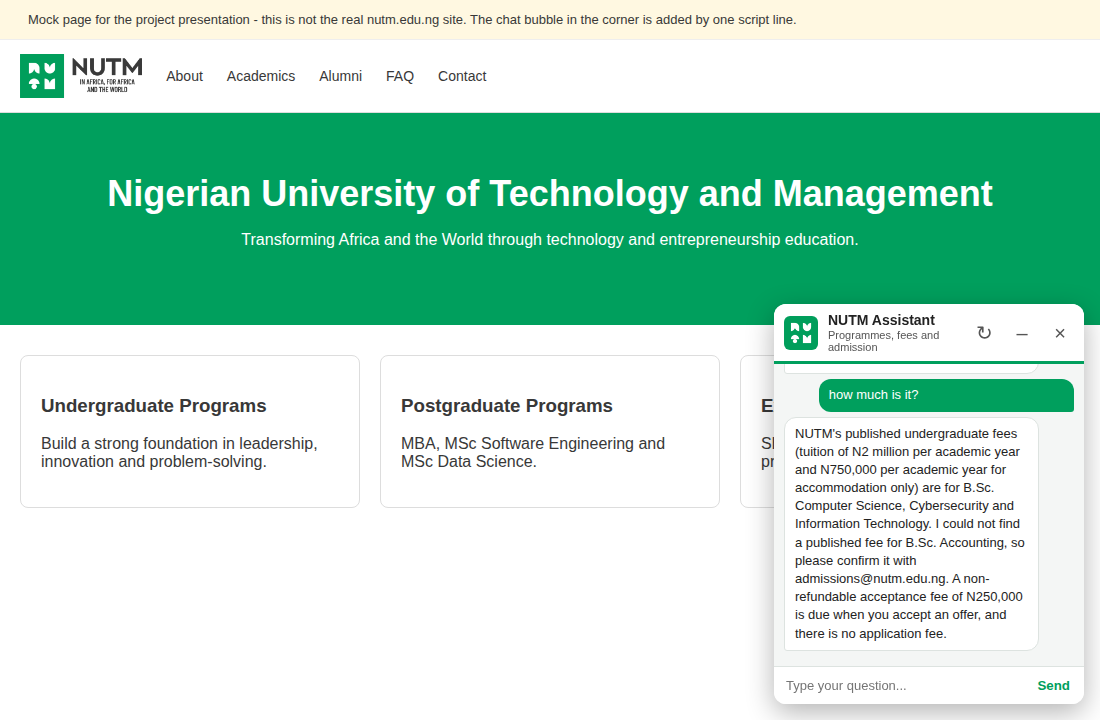
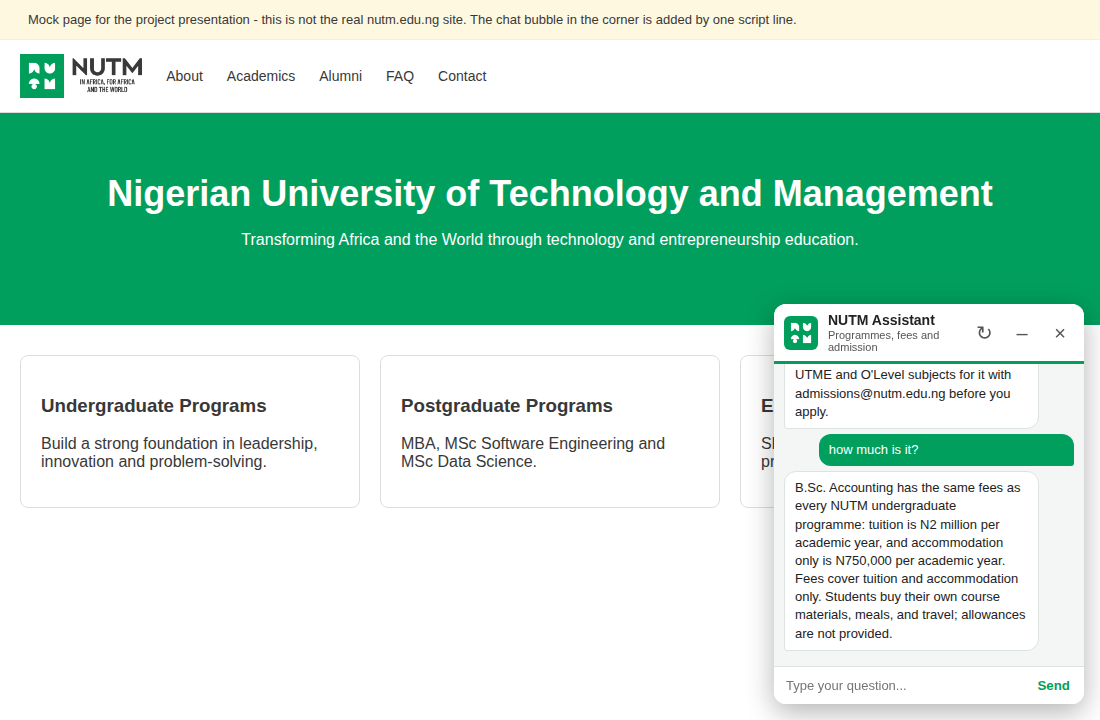
Add files via upload

Changed region(s): [[0.7109, 0.4889, 0.9891, 0.8861]]

diff --git a/nutm_chatbot.py b/nutm_chatbot.py
@@ -376,7 +376,7 @@ PROG_PATTERNS = [
 ]
 UG_WORDS = r"undergrad|\bbsc\b|b\.? ?sc\b|jamb|utme|\bug\b"
 INTENT_PATTERNS = [
-    ("eligibility", r"eligib|requirement|qualif|\bentry\b|prerequisite|criteria|cut ?off|jamb score|utme score|what do i need|need to (study|apply|get in|join)|who can (apply|study|join)"),
+    ("eligibility", r"eligib|requirement|qualif|\bentry\b|prerequisite|criteria|cut ?off|jamb score|utme score|what do i need|need to (study|apply|get in|join)|who can (apply|study|join)|physics|o.?level subjects?"),
     ("fee", r"\bfees?\b|cost|tuition|price|how much|charges|payment|\bpay\b|expensive|afford"),
     ("duration", r"how long|duration|length|\bmonths?\b|\byears?\b|semesters?"),
     ("curriculum", r"course|curriculum|module|subject|syllabus|what (will|do|can) i (learn|study)|taught|credits?|study plan"),
@@ -462,20 +462,20 @@ def route(retriever, prog, intent):
             return None
         if not degree:
             return e["body"], e
-        return (f"For {label}, NUTM's published undergraduate entry requirements are:\n{e['body']}\n\n"
-                f"NUTM states these for its undergraduate programmes in general; please confirm any extra "
-                f"requirement for {label} with admissions@nutm.edu.ng."), e
+        group = entry("Computing degrees, O'Level") if computing else entry("Business and economics degrees, O'Level")
+        if not group:
+            return None
+        return (f"{group['body']}\n\nPlease confirm any further subject requirement for {label} with "
+                f"admissions@nutm.edu.ng."), group
     if intent == "fee":
         e = entry("Tuition and accommodation fees")
         if not e:
             return None
-        if computing or not degree:
-            return ((f"{label}: " if degree else "") + e["body"]), e
-        return (f"NUTM's published undergraduate fees (tuition of N2 million per academic year and N750,000 per academic "
-                f"year for accommodation only) are for B.Sc. Computer Science, Cybersecurity and Information Technology. "
-                f"I could not find a published fee for {label}, so please confirm it with admissions@nutm.edu.ng. "
-                f"A non-refundable acceptance fee of N250,000 is due when you accept an offer, and there is no "
-                f"application fee."), e
+        if degree:
+            return (f"{label} has the same fees as every NUTM undergraduate programme: tuition is N2 million per academic "
+                    f"year, and accommodation only is N750,000 per academic year. Fees cover tuition and accommodation "
+                    f"only. Students buy their own course materials, meals, and travel; allowances are not provided."), e
+        return e["body"], e
     if intent == "admission":
         e = entry("How do I apply for an undergraduate")
         if not e:
@@ -487,11 +487,10 @@ def route(retriever, prog, intent):
         e = entry("Programme length")
         if not e:
             return None
-        if computing or not degree:
-            return ((f"{label}: " if degree else "") + e["body"]), e
-        return (f"The programme length NUTM publishes is four academic sessions (eight consecutive semesters) for its "
-                f"computing programmes entering through UTME. I could not find a published duration for {label}; "
-                f"please confirm it with admissions@nutm.edu.ng."), e
+        if degree:
+            return (f"{label} runs for a minimum of four (4) academic sessions, or eight (8) consecutive semesters, "
+                    f"for candidates who enter through UTME. All NUTM undergraduate programmes have the same length."), e
+        return e["body"], e
     if intent == "curriculum":
         e = entry(label) if degree else entry("Undergraduate programmes: list")
         if not e:

diff --git a/test_chatbot.py b/test_chatbot.py
@@ -36,7 +36,7 @@ IN_SCOPE = [
     ("what undergraduate programmes are offered", "Undergraduate programmes: list"),
     ("tell me about cybersecurity degree", "Cybersecurity"),
     ("executive education courses", "Executive Education"),
-    ("does NUTM have hostels", "accommodation"),
+    ("does NUTM have hostels", "off-campus living"),
     ("what is the minimum JAMB score", "Entry requirements for undergraduate"),
     ("is there an application fee", "application fee"),
     ("how long is the undergraduate degree", "Programme length"),
@@ -105,8 +105,8 @@ def matrix_cases():
                 for tpl in TEMPLATES[topic]:
                     yield tpl.format(p=n), mark, label, topic
     for n, (computing, desc) in UG_DEGREES.items():
-        marks = {"fee": "N2 million" if computing else "confirm it with admissions", "eligibility": "180",
-                 "admission": "university-degree-programs", "duration": "four" if computing else "confirm it with admissions",
+        marks = {"fee": "N2 million", "eligibility": "180",
+                 "admission": "university-degree-programs", "duration": "four",
                  "curriculum": desc, "start": "rolling basis"}
         for topic, mark in marks.items():
             for tpl in TEMPLATES[topic]:

diff --git a/README.md b/README.md
@@ -17,12 +17,12 @@ Built for the **Python for Data Science** course as a Python project.
 
 | Embedded on a mock NUTM page | Minimized |
 |---|---|
-| ![Chatbot embedded on a mock NUTM page](chatbot_ui_embedded_demo.png) | ![Minimized chat window](chatbot_ui_minimized.png) |
+| ![Chatbot embedded on a mock NUTM page](screenshots/chatbot_ui_embedded_demo.png) | ![Minimized chat window](screenshots/chatbot_ui_minimized.png) |
 
 ## What it can do
 
-- **Answer NUTM questions:** programmes, fees, entry requirements, admission steps, programme length, courses, start dates, scholarships, TEDLab, Shadow a Leader, contacts and more (83 knowledge entries).
-- **Give the right answer for each programme.** Ask about MSc Data Science, MSc Software Engineering, the MBA, or any undergraduate degree (Computer Science, Cybersecurity, Information Technology, Accounting, Business Administration, Entrepreneurship, Economics) and it answers for that programme. Where NUTM has not published something for a programme (for example the fee for B.Sc. Accounting), it says so and points to admissions instead of guessing.
+- **Answer NUTM questions:** programmes, fees, entry requirements, admission steps, programme length, courses, start dates, scholarships, TEDLab, Shadow a Leader, contacts and more (85 knowledge entries).
+- **Give the right answer for each programme.** Ask about MSc Data Science, MSc Software Engineering, the MBA, or any undergraduate degree (Computer Science, Cybersecurity, Information Technology, Accounting, Business Administration, Entrepreneurship, Economics) and it answers for that programme. All undergraduate programmes have the same fees (N2 million tuition and N750,000 accommodation only per academic year), and it says so for whichever degree you ask about. Where NUTM has not published a detail for a programme (for example separate subject requirements for B.Sc. Accounting), it says so and points to admissions instead of guessing.
 - **Continue a conversation.** "How much is the MBA?" then "what about data science?" then "how do I apply?" works, as does "tell me more". If a question is ambiguous ("how much is the fee?") it asks which programme you mean.
 - **Chat politely.** It replies to greetings (even with spelling mistakes, such as "good mormning"), good afternoon/evening/night, okay, well done, thanks, goodbye, "who are you?", "help" and similar.
 - **Stay honest.** Questions it cannot answer (weather, football and so on) get a friendly reply with NUTM's contact details instead of a made-up answer.
@@ -37,7 +37,7 @@ Example questions:
 
 ## How it works
 
-1. **Knowledge base:** `nutm_knowledge_base.txt` holds 83 short entries written from the NUTM website (including TEDLab, Shadow a Leader and the Scholars Program), the MSc Data Science, MSc Software Engineering and MBA brochures, and the undergraduate FAQ.
+1. **Knowledge base:** `nutm_knowledge_base.txt` holds 85 short entries written from the NUTM website (including TEDLab, Shadow a Leader and the Scholars Program), the MSc Data Science, MSc Software Engineering and MBA brochures, and the undergraduate FAQ.
 2. **Programme router:** the question is checked for a programme (for example "BSc Accounting") and a topic (fee, admission, entry requirements, duration, courses, start date). When both are found, the exact answer for that programme is returned.
 3. **Retrieval:** otherwise each entry and each question is turned into a TF-IDF word vector (with simple stemming, synonyms, spelling-mistake correction and programme detection). The entry with the highest cosine similarity is returned. Off-topic questions are detected and answered with the safe fallback.
 4. **Conversation memory:** after each answer the server sends back a small "context" (the programme and topic just discussed). The chat window stores it in the browser tab's session storage and sends it with the next question, so the server keeps no conversation history. Refreshing the page or moving to another page of the site continues the same chat; closing the tab ends it. The **New chat** button (the circular arrow) starts again.
@@ -152,7 +152,7 @@ Built in:
 - HTML pages are sent with a Content-Security-Policy, `X-Frame-Options` and `Referrer-Policy`; HTTPS responses add `Strict-Transport-Security`. The server does not reveal its Python version.
 - Visitors' questions are never saved or logged by the server; log lines have control characters removed. `/health` is available for hosting health checks.
 - The conversation is kept only in the visitor's own browser tab (session storage). The context the browser sends back is validated against known values.
-- The chat window sends no cookies, and is keyboard- and screen-reader-friendly (labelled input, live message region, Escape closes the window).
+- The chat window sends no cookies and is keyboard- and screen-reader-friendly (labelled input, live message region, Escape closes the window).
 
 Settings you should make when you host it:
 
@@ -181,7 +181,7 @@ Whoever controls your GitHub or hosting account controls what the chatbot tells 
 - Memory is basic: it remembers the programme and topic of the last questions, not a long conversation.
 - It cannot answer general-knowledge questions (weather, sport and so on); it says so and shares NUTM's contacts.
 - The knowledge base is updated by hand. Several NUTM details (such as the September 2026 start dates) may already be out of date.
-- Where NUTM has not published a detail for a programme (for example some undergraduate fees), the bot says so rather than guessing.
+- Where NUTM has not published a detail for a programme (for example per-programme details beyond the general entry requirements), the bot says so rather than guessing.
 - English only.
 - The free hosting plan sleeps after about 15 minutes of inactivity.
 
